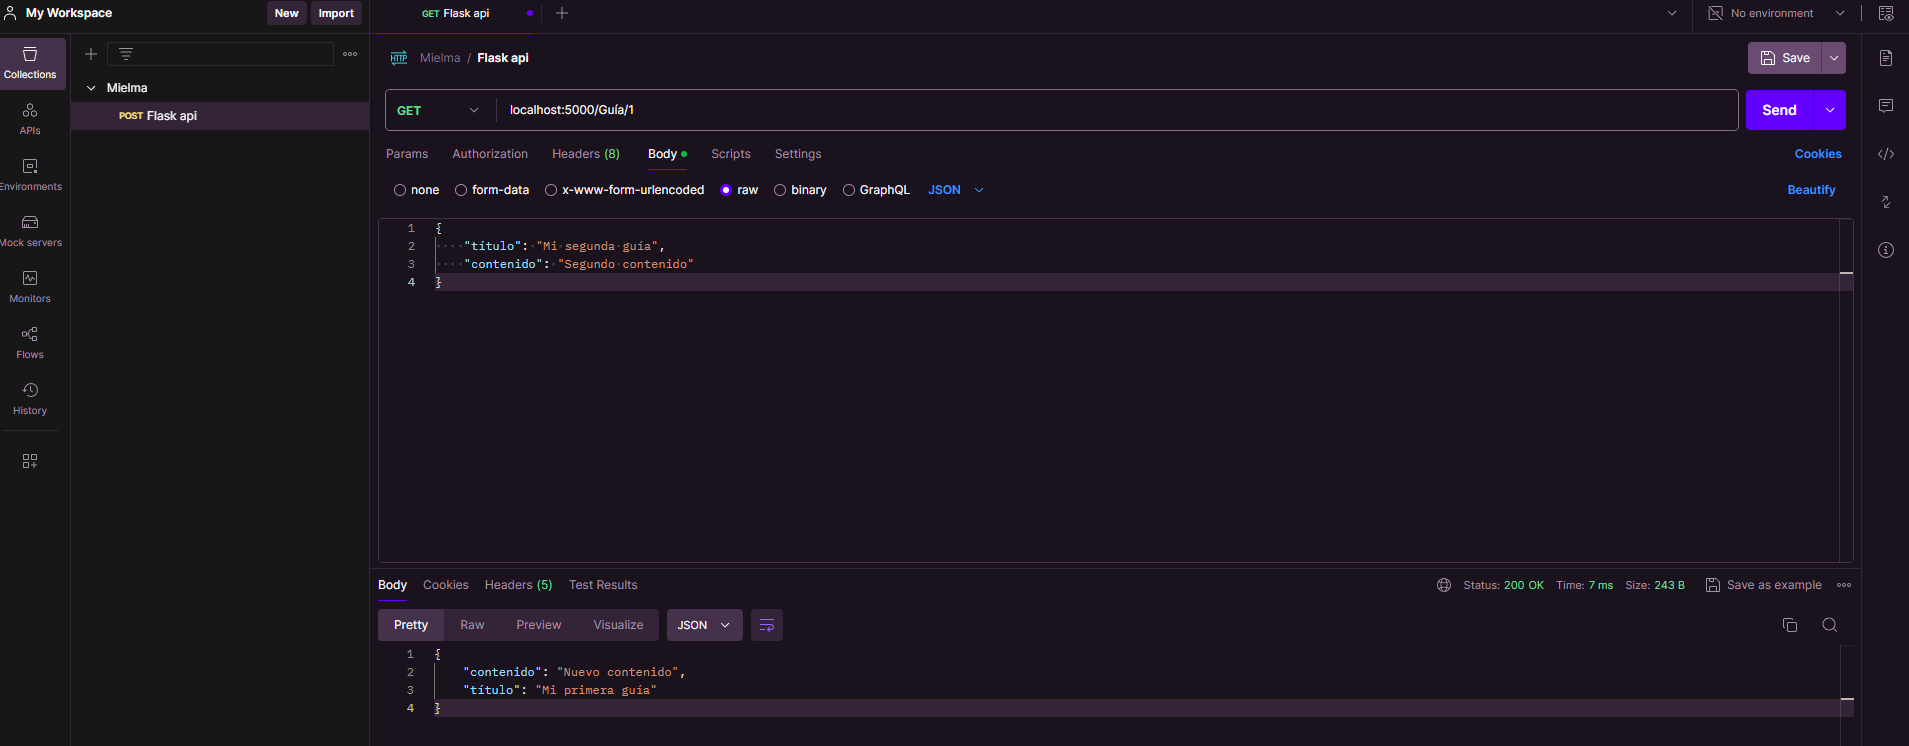
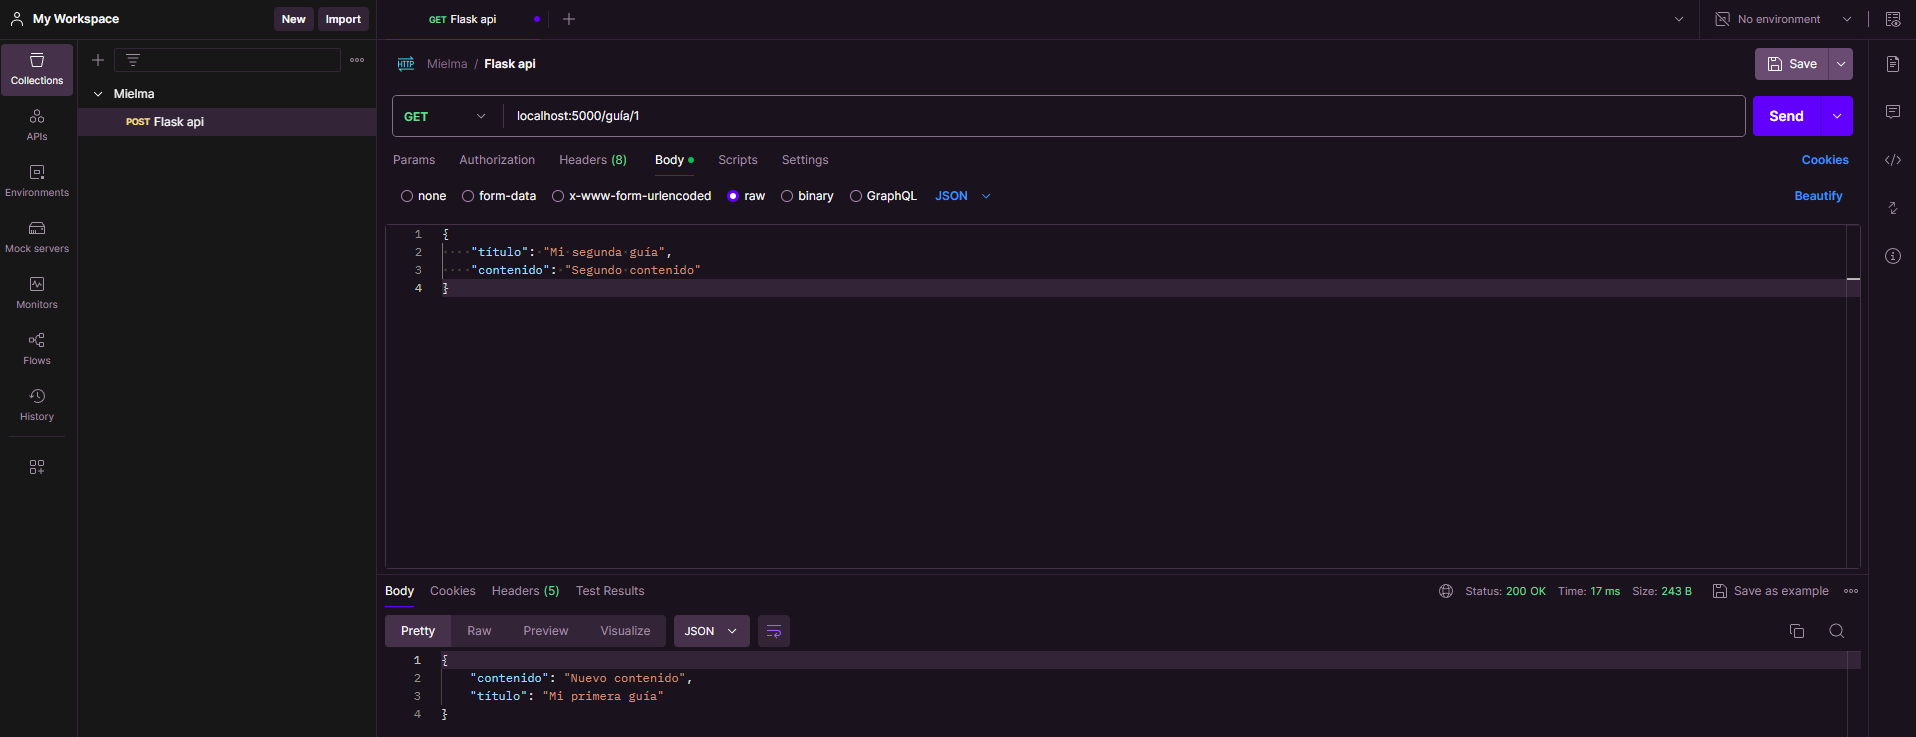
Mielma

diff --git a/Python/Api/09_Solicitud_Put_Actualización.html b/Python/Api/09_Solicitud_Put_Actualización.html
@@ -1,0 +1,49 @@
+<!DOCTYPE html>
+<html lang="en">
+<head>
+    <meta charset="UTF-8">
+    <meta name="viewport" content="width=device-width, initial-scale=1.0">
+    <title>Crear una acción de actualización con una solicitud PUT en Flask</title>
+    <!-- Estilos -->
+    <link rel="stylesheet" href="../Style/comunes.css"> 
+    <!-- Iconos -->
+    <script src="https://kit.fontawesome.com/e2e69b5406.js" crossorigin="anonymous"></script>
+</head>
+<body>
+
+    <h1>Crear una acción de actualización con una solicitud PUT en Flask</h1>
+
+<h2>¿Qué es PUT?</h2>
+
+<p>Los llamados PUT en una API se utilizan para modificar información o datos de un servidor. Estas solicitudes son seguras y se envían a través de la URL.</p>
+
+<p>El método PUT actualiza las propiedades de literal y las propiedades de recurso local y suprime las propiedades de recursos local que no estén incluidas en la solicitud.</p>
+
+<p>El método PUT es el que debemos utilizar para operaciones de actualización, para "updates", mientras que el método POST lo utilizaremos en operaciones para crear nuevos elementos, para "create". Utilizaremos PUT cuando queramos modificar un recurso en concreto que ya forma parte de la colección de recursos.</p>
+
+<h2>Punto final PUT actualización de guía</h2>
+
+<p>Actualizar el título o el contenido con PUT
+<br><img src="imagenes/Punto final put actualización guía.png" alt="Punto final put actualización guía"></p>
+
+<p>En terminal ejecutar python app.py o run en vsc
+<br><img src="imagenes/Punto final run.png" alt="Punto final run"></p>
+
+<p>Abrir postman, get - localhost:5000/guía/1 - send
+<br><img src="imagenes/Punto final put actualización guía postman.png" alt="Punto final put actualización guía postman"></p>
+    
+
+
+<h1>Links Informativos</h1>
+
+<div class="link">
+<p><a href="" 
+    target="_blank">DevCamp Exclusivo Usuarios</a></p>
+<p><a href="" 
+    target="_blank">Código en esta etapa</a></p>
+<!-- <p><a href="" 
+    target="_blank"></a></p> -->
+</div>    
+
+</body>
+</html>

diff --git a/Python/Api/08_Solicitud_Get_Registro_Único.html b/Python/Api/08_Solicitud_Get_Registro_Único.html
@@ -26,14 +26,14 @@
 <p>Al llamar &lt;id&gt;, le dice a Flask que esté atento a la ruta donde comienza con una guía y tiene un corchete angular
 <img src="imagenes/Punto final get única guía.png" alt="Punto final get única guía"></p>
 
-<p>Abrir postman, get - localhost:5000/guías - send
-    
-    <br><img src="imagenes/Punto final get única guía postman.png" alt="Punto final get única guía postman"></p>
+<p>En terminal ejecutar python app.py o run en vsc
+<br><img src="imagenes/Punto final run.png" alt="Punto final run"></p>
+
+<p>Abrir postman, get - localhost:5000/guía/1 - send
+<br><img src="imagenes/Punto final get única guía postman.png" alt="Punto final get única guía postman"></p>
 
 <p>Si solicita una ID que no existe, simplemente devuelve un objeto vacío, no le da un error ni dice que no existe, por lo que hay algo importante a tener en cuenta.</p>
     
-
-
 <h1>Links Informativos</h1>
 
 <div class="link">

diff --git a/Python/Api/07_Punto_Final_Get_Api_Flask.html b/Python/Api/07_Punto_Final_Get_Api_Flask.html
@@ -22,13 +22,16 @@
 <h2>Punto final GET</h2>
 <p>Usar decorador de ruta
 <br><img src="imagenes/Get Decorador Ruta.png" alt="Get Decorador Ruta"></p>
+
 <p>En terminal ejecutar python app.py o run en vsc
-    <br><img src="imagenes/Punto final run.png" alt="Punto final run"></p>
+<br><img src="imagenes/Punto final run.png" alt="Punto final run"></p>
+
 <p>Abrir postman, get - localhost:5000/guías - send
-    
 <br><img src="imagenes/Get postman.png" alt="Get postman"></p>
+
 <p>Añadir una segunda guía, post - segunda guía - send
 <br><img src="imagenes/Post segunda guía.png" alt="Post segunda guía"></p>
+
 <p>Abrir postman, get - localhost:5000/guías - send
 <br><img src="imagenes/Get postman 2.png" alt="Get postman 2"></p>
     

diff --git a/Python/Api/06_Punto_Final_Post_Api_Flask.html b/Python/Api/06_Punto_Final_Post_Api_Flask.html
@@ -33,8 +33,8 @@
 <br><img src="imagenes/Punto final run.png" alt="Punto final run"></p>
 
 <p>Abrir postman, añadir post, body(raw) y send
-    <br>comprobar que funciones status 200 ok,  si no tira error
-    <br><img src="imagenes/Punto final postman.png" alt="Punto final postman">
+<br>comprobar que funciones status 200 ok,  si no tira error
+<br><img src="imagenes/Punto final postman.png" alt="Punto final postman">
 </p>
 
 <h1>Links Informativos</h1>

diff --git a/Python/Api/App/app.py b/Python/Api/App/app.py
@@ -53,12 +53,23 @@ def get_guías(): # Crear función
     return jsonify(resultado)
 
 # Punto final para consultar una única guía
-@app.route("/Guía/<id>", methods=["GET"]) # Punto final # <id> Flask atento a ruta donde comienza guía
+@app.route("/guía/<id>", methods=["GET"]) # Punto final # <id> Flask atento a ruta donde comienza guía
 def get_guía(id): # Crear función
     guía = Guía.query.get(id) # Almacenar variable
     return guía_esquema.jsonify(guía) # Uso esquema guía única
 
+# Punto final PUT Actualización guía
+@app.route("/guía/<id>", methods=["PUT"]) # Punto final
+def guía_update(id): # Crear función
+    guía = Guía.query.get(id) # Almacenar variable
+    título = request.json['título'] # Almacenar variable
+    contenido = request.json['contenido'] # Almacenar variable
     
+    guía.título = título 
+    guía.contenido = contenido
+
+    db.session.commit()
+    return guía_esquema.jsonify(guía)# Uso esquema guía única
 
     
 if __name__ == '__main__': # Condición si el nombre es igual al principal
